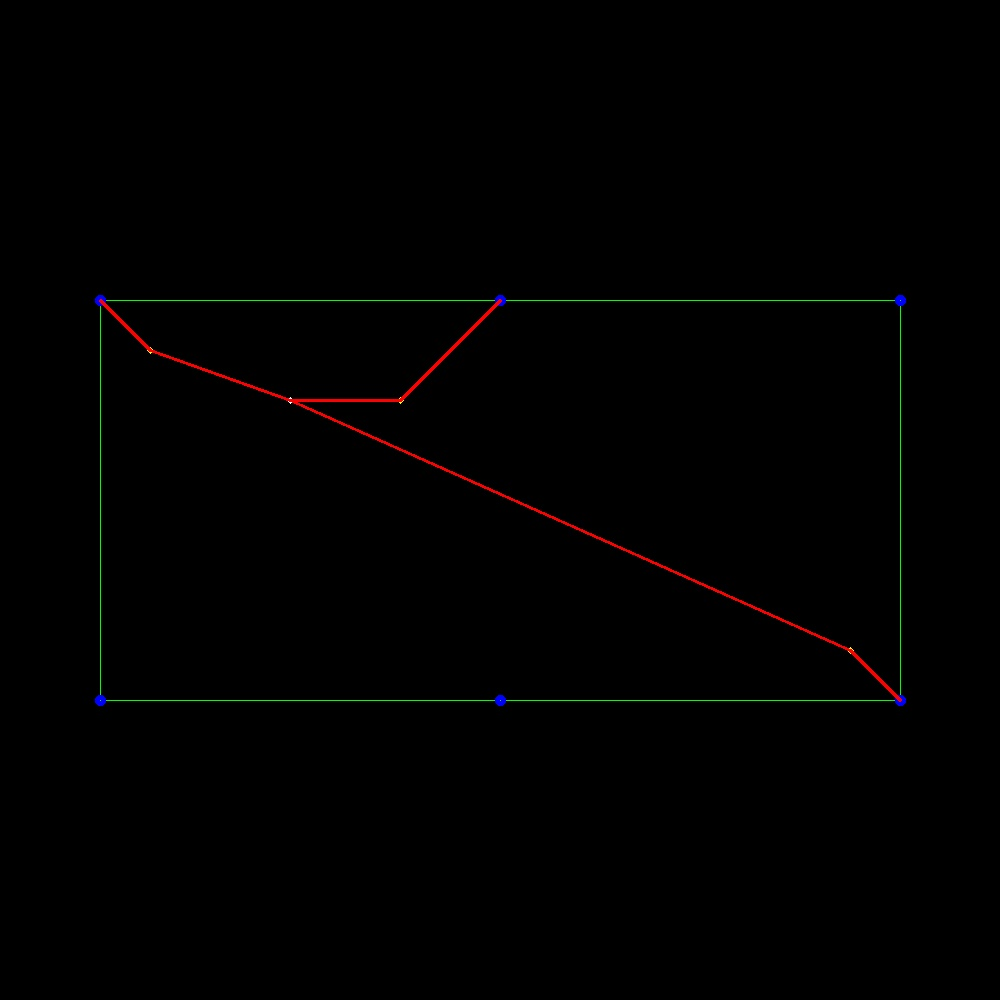
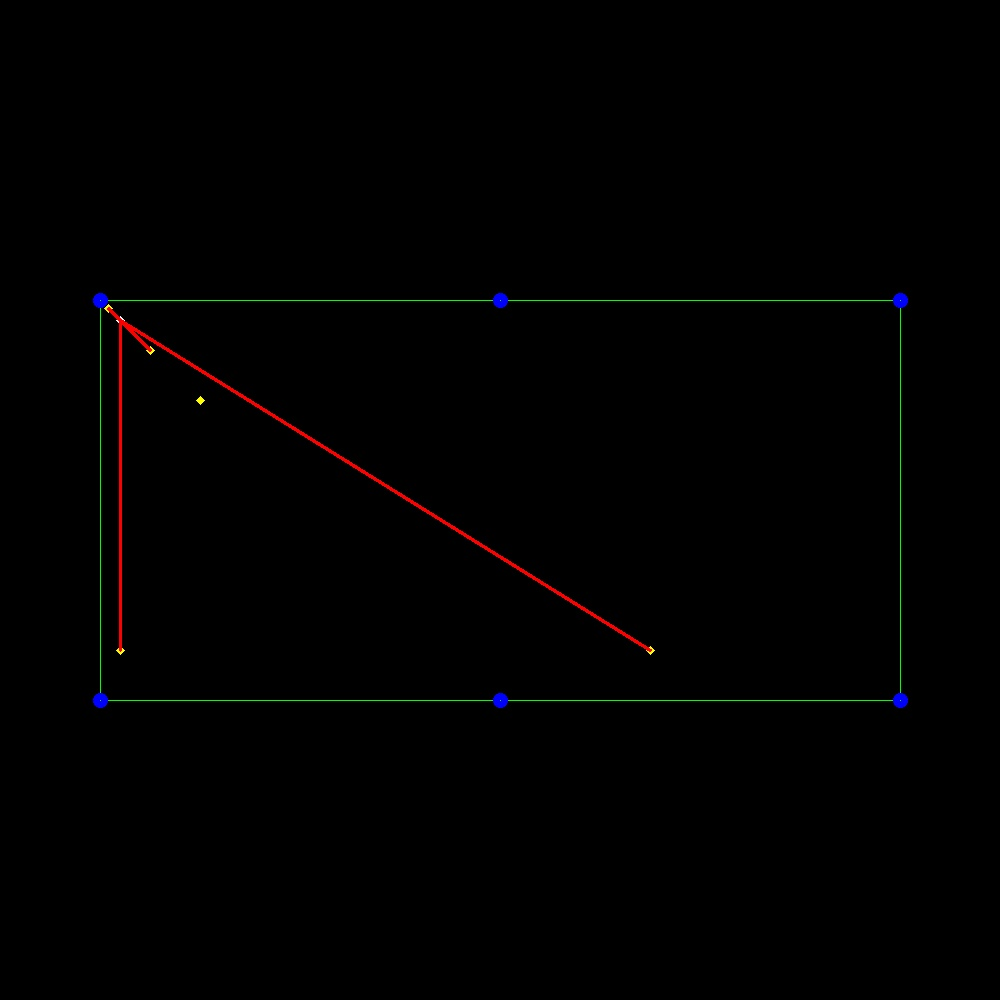
Data Collection and Storage Done, Time to Figure out how to choose pocket

diff --git a/new_shot_calculator.py b/new_shot_calculator.py
@@ -18,6 +18,11 @@ RADIUS_BALL = 1
 RADIUS_POCKET = 2
 CUE_BALL = 0
 NO_POCKETS = 6
+BLUE = (255,0,0)
+GREEN = (0,255,0)
+RED = (0,0,255)
+WHITE = (255,255,255)
+YELLOW = (0,255,255)
 
 #int (ball number) -> list
 #list = index 0 -> DISTACNE
@@ -46,8 +51,8 @@ ball_to_shots = {1: [[-1,-1,-1,-1,-1,-1],-1,-1,[-1,-1,-1,-1,-1,-1],[-1,-1,-1,-1,
 pockets = [[100,300],[500,300],[900,300],[900,700],[500,700],[100,700]]
 
 
-listX = [120,150,400,850,290,450,-1,-1,-1,-1,-1,-1,-1,-1,-1,-1]
-listY = [320,350,400,650,600,650,-1,-1,-1,-1,-1,-1,-1,-1,-1,-1]
+listX = [120,150,200,650,108,120,-1,-1,-1,-1,-1,-1,-1,-1,-1,-1]
+listY = [320,350,400,650,308,650,-1,-1,-1,-1,-1,-1,-1,-1,-1,-1]
 
 
 
@@ -168,35 +173,37 @@ def create_first_lines():
             shot_params[FIRST_SLOPE] = np.nan
             shot_params[FIRST_INTERCEPT] = np.nan
         return
-    for i in range(FIRST_BALL,NUMBER_OF_BALLS):
+    for target_ball in range(FIRST_BALL,NUMBER_OF_BALLS):
         #check if ball has been potted
-        if(listX[i]<0): continue
-        if(listY[i]<0): continue
-
+        if(listX[target_ball]<0 or listY[target_ball]<0): 
+            shot_params = ball_to_shots.get(target_ball)
+            shot_params[FIRST_SLOPE] = np.nan
+            shot_params[FIRST_INTERCEPT] = np.nan
+            continue
         #check if there exists a collision between the cue ball and this ball for everyball 
         # but itself 
         collision = False
-        for j in range(FIRST_BALL,NUMBER_OF_BALLS):
-            if (i == j): continue
-            if (listX[j]<0): continue
-            if (listY[j]<0): continue
-            upperCheck = checkCollision(listX[CUE_BALL],listY[CUE_BALL]+RADIUS_BALL,listX[i],listY[i]+RADIUS_BALL,listX[j],listY[j],RADIUS_BALL)
-            lowerCheck = checkCollision(listX[CUE_BALL],listY[CUE_BALL]-RADIUS_BALL,listX[i],listY[i]-RADIUS_BALL,listX[j],listY[j],RADIUS_BALL)
+        for collision_ball in range(FIRST_BALL,NUMBER_OF_BALLS):
+            if (target_ball == collision_ball): continue
+            if (listX[collision_ball]<0): continue
+            if (listY[collision_ball]<0): continue
+            upperCheck = checkCollision(listX[CUE_BALL],listY[CUE_BALL]+RADIUS_BALL,listX[target_ball],listY[target_ball]+RADIUS_BALL,listX[collision_ball],listY[collision_ball],RADIUS_BALL)
+            lowerCheck = checkCollision(listX[CUE_BALL],listY[CUE_BALL]-RADIUS_BALL,listX[target_ball],listY[target_ball]-RADIUS_BALL,listX[collision_ball],listY[collision_ball],RADIUS_BALL)
             #shot is not possible
             if (upperCheck or lowerCheck):
                 collision = True
                 break
         #no collision shot is possible
         if(not collision):
-            if (listX[i]==listX[CUE_BALL]): slope = np.inf
-            else: slope = (listY[i]-listY[CUE_BALL])/(listX[i]-listX[CUE_BALL])
+            if (listX[target_ball]==listX[CUE_BALL]): slope = np.inf
+            else: slope = (listY[target_ball]-listY[CUE_BALL])/(listX[target_ball]-listX[CUE_BALL])
             if (slope == np.inf): intercept = np.inf
-            else: intercept = listY[i] - (slope * listX[i])
+            else: intercept = listY[target_ball] - (slope * listX[target_ball])
         #shot is not possible cause collision 
         else:
             slope = np.nan
             intercept = np.nan
-        shot_params = ball_to_shots.get(i)
+        shot_params = ball_to_shots.get(target_ball)
         shot_params[FIRST_SLOPE] = slope
         shot_params[FIRST_INTERCEPT] = intercept
 
@@ -239,6 +246,28 @@ def create_second_lines():
             pocket_index+=1
     print_dimensions();
 
+
+def drawImage():
+    img = np.zeros((1000,1000,3), np.uint8)
+    cv.rectangle (img,(100,300),(900,700),GREEN,1)
+    for target_ball in range(NUMBER_OF_BALLS):
+        if listX[target_ball]>0:
+            if (target_ball==CUE_BALL):
+                cv.circle(img,(listX[target_ball],listY[target_ball]),RADIUS_BALL*2,WHITE,3)
+            else:
+                cv.circle(img,(listX[target_ball],listY[target_ball]),RADIUS_BALL*2,YELLOW,3)
+    for pocket in pockets:
+        cv.circle(img,(pocket[0],pocket[1]),RADIUS_POCKET*2,BLUE,6)   
+    
+    for target_ball in range(FIRST_BALL,NUMBER_OF_BALLS):
+        shot_params = ball_to_shots.get(target_ball)
+        if(not math.isnan(shot_params[FIRST_SLOPE])):
+            cv.line(img,(listX[CUE_BALL],listY[CUE_BALL]),(listX[target_ball],listY[target_ball]),RED,2);
+        
+    cv.imwrite('img.jpeg',img)
+
+
 find_distance_to_all_pockets();
 create_first_lines();
 create_second_lines();
+drawImage();
